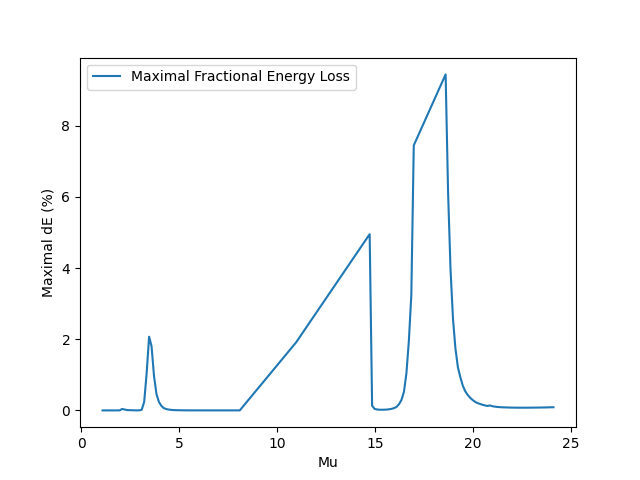
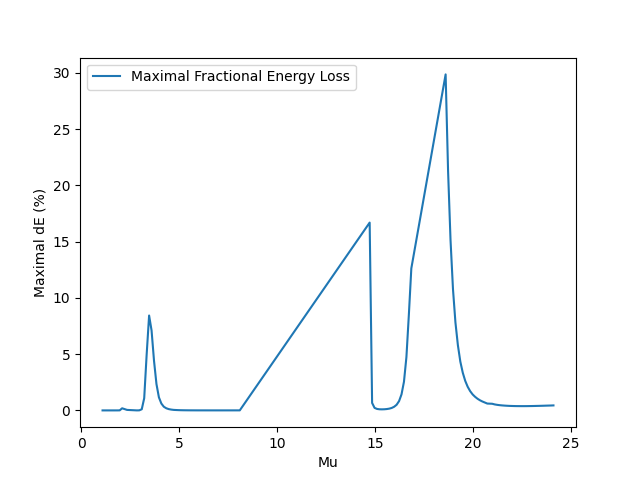
Longer Time de_by_Mu

diff --git a/src/dE_by_Mu.py b/src/dE_by_Mu.py
@@ -7,7 +7,7 @@ import matplotlib.lines as mlines
 from matplotlib import cm
 import numpy as np
 
-tf = 100
+tf = 500
 dt = 0.01
 maxU = 25
 U = np.linspace(1.1,maxU+1,200)
@@ -21,7 +21,7 @@ for i,u in enumerate(U):
     DET[i] = max(abs(dET))
     t[i] = len(r)*dt
 plt.plot(U,DET,label="Maximal Fractional Energy Loss")
-plt.plot(U,t/max(t),label="Fractional Time Length Of The Simulation")
+plt.plot(U,5*t/max(t),label="5 * Fractional Time Length Of The Simulation")
 
 plt.xlabel("Mu")
 plt.ylabel("Maximal dE (%)")
@@ -49,7 +49,7 @@ for i,u in enumerate(U):
     DET[i] = max(abs(dET))
     t[i] = len(r)*dt
 plt.plot(U,DET,label="Maximal Fractional Energy Loss")
-plt.plot(U,t/max(t),label="Fractional Time Length Of The Simulation")
+plt.plot(U,5*t/max(t),label="5 * Fractional Time Length Of The Simulation")
 
 plt.xlabel("Mu")
 plt.ylabel("Maximal dE (%)")
